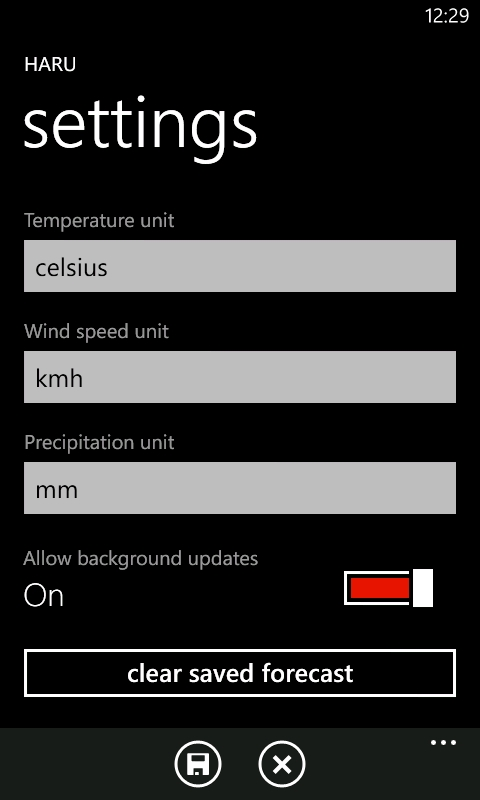
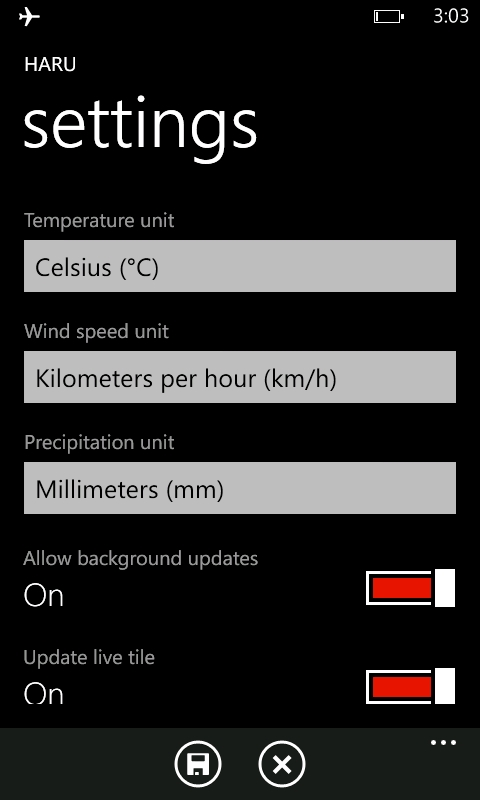
new screenshots

diff --git a/README.md b/README.md
@@ -43,13 +43,17 @@ A clean, modern weather application for Windows Phone that brings beautiful weat
 
 ## Screenshots
 
-|![Splash screen](Screenshots/splash.webp)|![Current weather](Screenshots/right-now.webp)|![Location search](Screenshots/location-search.webp)|![Settings](Screenshots/settings.webp)|
-|:---:|:---:|:---:|:---:|
-|Splash Screen|Current Weather|Location Search|Settings|
+| ![right now](Screenshots/right_now.webp) | ![next 12 hours](Screenshots/next_12_hours.webp) | ![next 7 days](Screenshots/next_7_days.webp) |
+| :--------------------------------------: | :----------------------------------------------: | :------------------------------------------: |
+|                right now                 |                  next 12 hours                   |                 next 7 days                  |
 
-|![Front (no location)](Screenshots/tile1.webp)|![Back (no location)](Screenshots/tile2.webp)|![Front (location set)](Screenshots/tile3.webp)|![Back (location set)](Screenshots/tile4.webp)|
-|:---:|:---:|:---:|:---:|
-|Live Tile Front (no location)|Live Tile Back (no location)|Live Tile Front (location set)|Live Tile Back (location set)|
+| ![favorites](Screenshots/favorites.webp) | ![search](Screenshots/search.webp) | ![settings](Screenshots/settings.webp) |
+| :--------------------------------------: | :--------------------------------: | :------------------------------------: |
+|                favorites                 |               search               |                settings                |
+
+| ![Live Tile](Screenshots/live_tile.webp) ![Live Tile (back)](Screenshots/live_tile_back.webp) | ![Monochrome Live Tile](Screenshots/mono_live_tile.webp) ![Monochrome Live Tile (back)](Screenshots/mono_live_tile_back.webp) |
+| :-------------------------------------------------------------------------------------------: | :---------------------------------------------------------------------------------------------------------------------------: |
+|                                           Live Tile                                           |                                                     Monochrome Live Tile                                                      |
 
 ## Limitations
 
